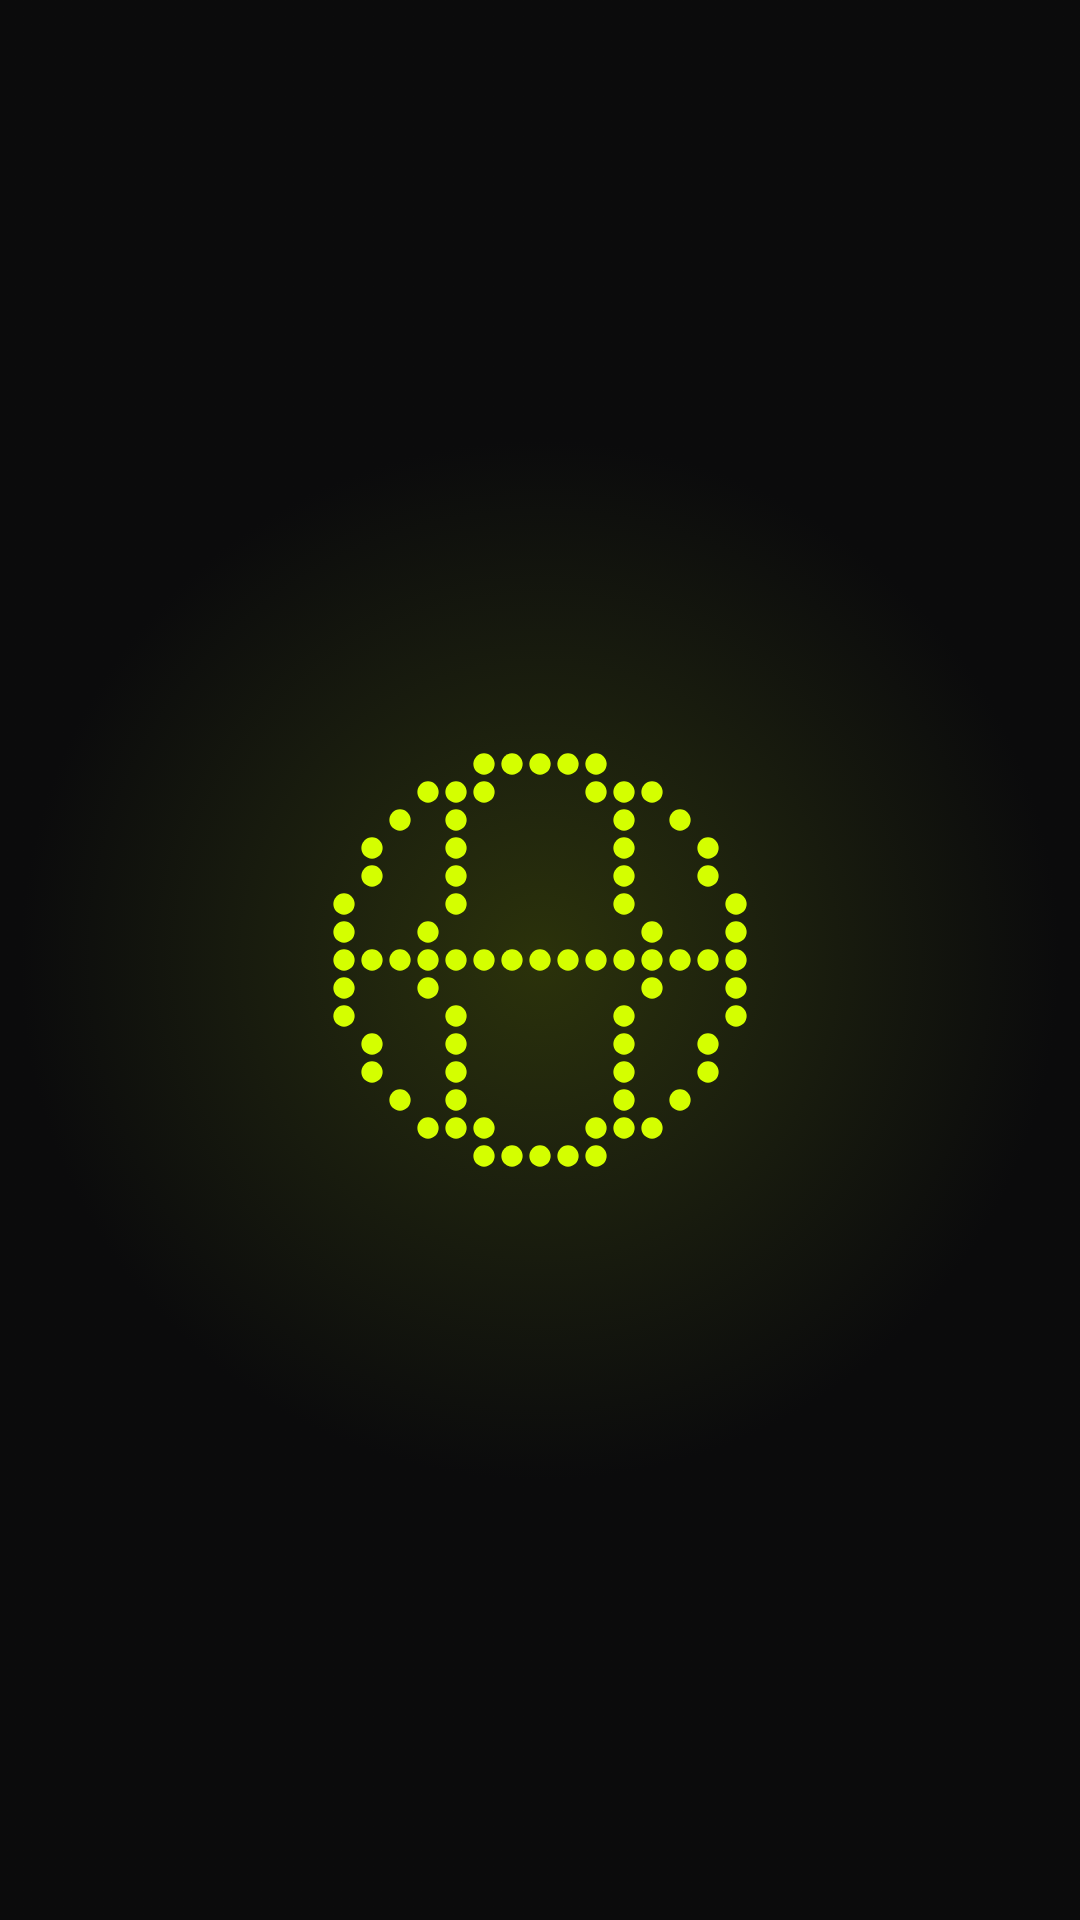
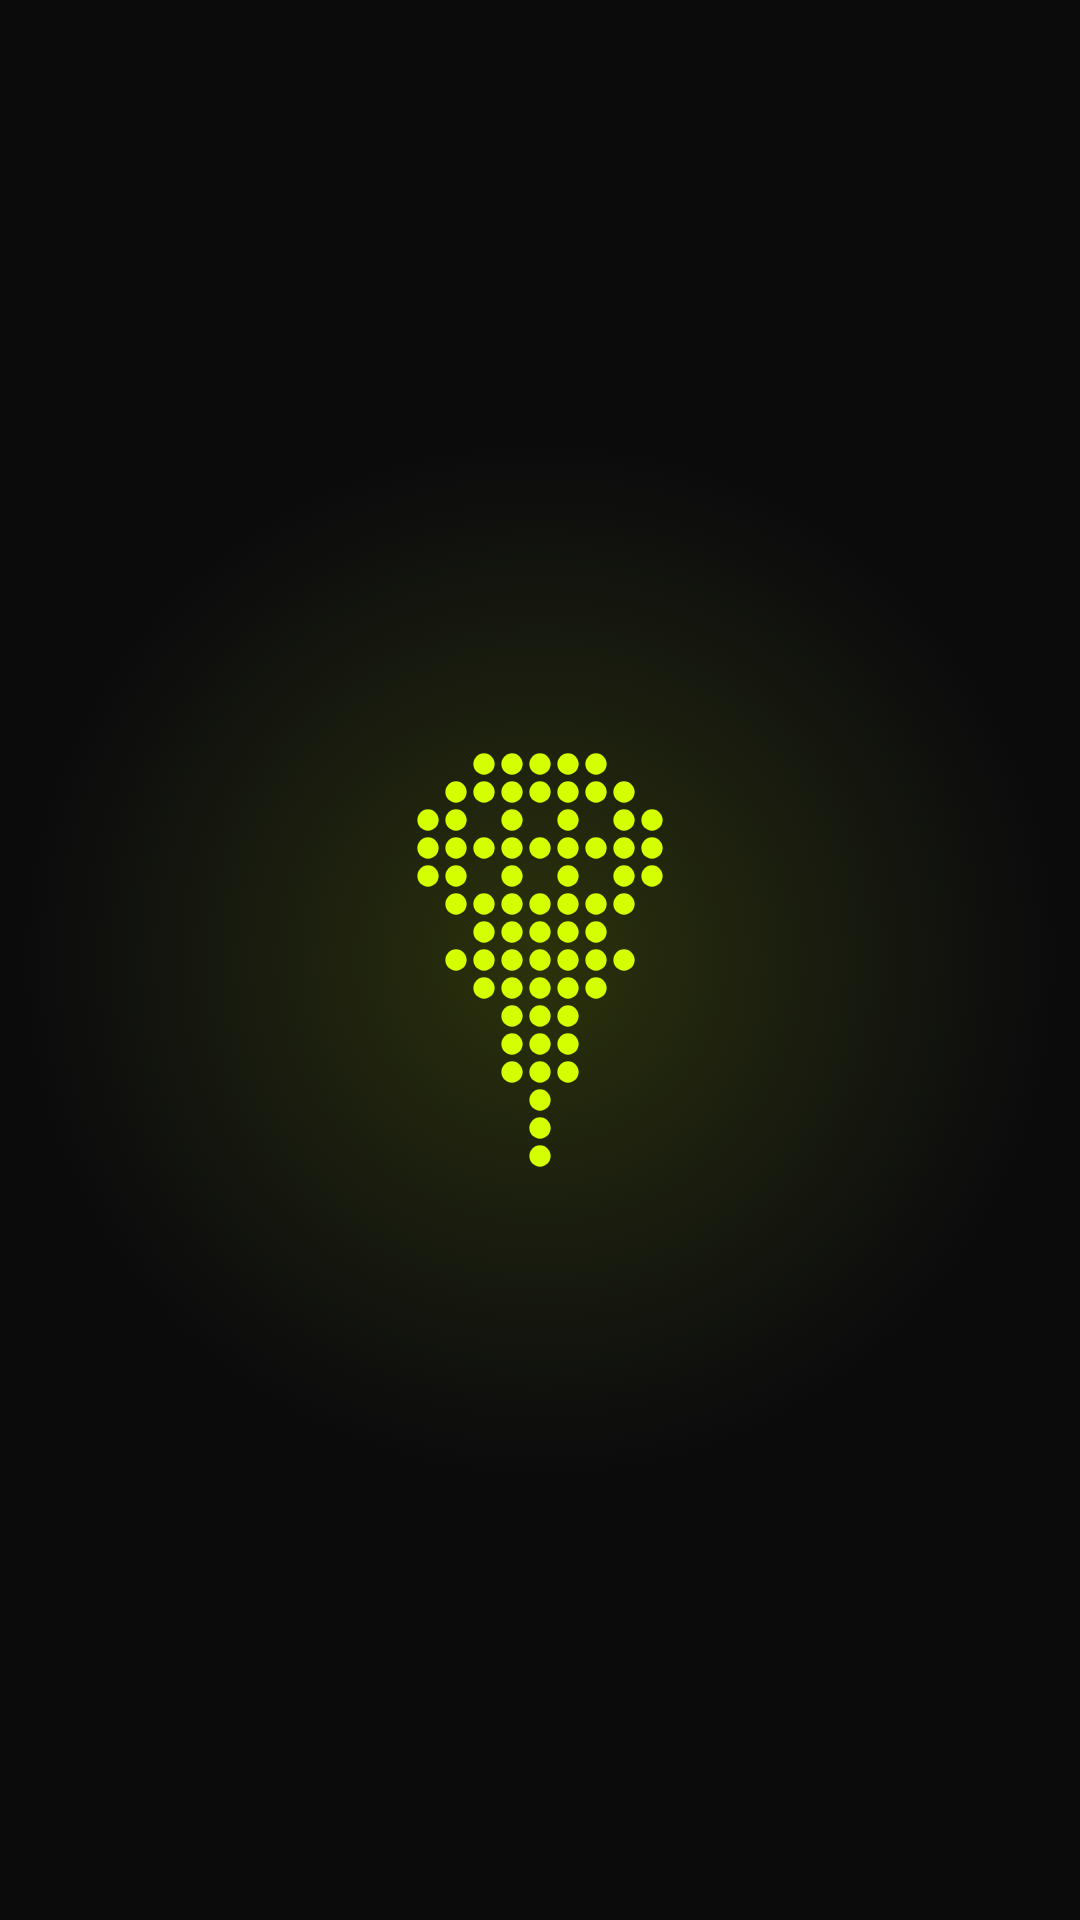
Destacadas: íconos de puntos más claros (micrófono para Shows, nota para Música)

Changed region(s): [[0.3056, 0.4062, 0.7028, 0.625]]

diff --git a/ig/src/grid.html b/ig/src/grid.html
@@ -48,8 +48,8 @@ const FONT = { M: ['10001','11011','10101','10101','10001','10001','10001'], D: 
 const word = (w, color, d) => { const L = [...w]; const cols = L.length * 6 - 1; return DOT(cols, 7, (x, y) => { const li = Math.floor(x / 6), cx = x % 6; return cx < 5 && FONT[L[li]][y][cx] === '1'; }, color, d); };
 const HL = [
   { t: 'MDE', c: 'var(--acido)', g: () => word('MDE', '#d4ff00', 30) },
-  { t: 'Shows', c: 'var(--acido)', g: () => DOT(15, 15, (x, y) => { const dx = x - 7, dy = y - 7, r = Math.hypot(dx, dy); if (r > 7.5) return false; return Math.abs(r - 7) < .5 || (y === 7 && r < 7) || (Math.abs(Math.abs(dx) - 3.6 * Math.sqrt(Math.max(0, 1 - dy * dy / 49))) < .5 && r < 7); }, '#d4ff00', 30) },
-  { t: 'Música', c: 'var(--hielo)', g: () => DOT(15, 15, (x, y) => { const r = Math.hypot(x - 7, y - 7); return (Math.abs(r - 7) < .5 || Math.abs(r - 4.6) < .5 || r < 1.6) ? true : false; }, '#3df5ff', 30) },
+  { t: 'Shows', c: 'var(--acido)', g: () => DOT(15, 15, (x, y) => ([".....xxxxx.....","....xxxxxxx....","...xx.x.x.xx...","...xxxxxxxxx...","...xx.x.x.xx...","....xxxxxxx....",".....xxxxx.....","....xxxxxxx....",".....xxxxx.....","......xxx......","......xxx......","......xxx......",".......x.......",".......x.......",".......x......."])[y][x] === "x", "#d4ff00", 30) },
+  { t: 'Música', c: 'var(--hielo)', g: () => DOT(15, 15, (x, y) => ([".....xxxxxxxxx.",".....xxxxxxxxx.",".....x.......x.",".....x.......x.",".....x.......x.",".....x.......x.",".....x.......x.",".....x.......x.",".....x.......x.","..xxxx....xxxx.",".xxxxx...xxxxx.",".xxxxx...xxxxx.","..xxx.....xxx..","...............","..............."])[y][x] === "x", "#3df5ff", 30) },
   { t: 'Andar', c: 'var(--calor)', g: () => { const pts = []; for (let k = 0; k <= 60; k++) { const u = k / 60; pts.push([1.5 + u * 11, 13 - u * 11 + Math.sin(u * Math.PI * 2) * 3.2]); } return DOT(15, 15, (x, y) => { const d = Math.min(...pts.map(([px, py]) => Math.hypot(x - px, y - py))); const end = Math.hypot(x - 12.5, y - 2) < 1.7; const start = Math.hypot(x - 1.5, y - 13) < 1.1; return end || start ? true : d < .75 ? true : false; }, '#ff2e7e', 30); } },
   { t: 'Booking', c: 'var(--uv)', g: () => DOT(11, 11, (x, y) => (y === 0 && x >= 4) || (x === 10 && y <= 6) || (x + y === 10 && x >= 1) ? true : false, '#7b2cff', 40) },
 ];
